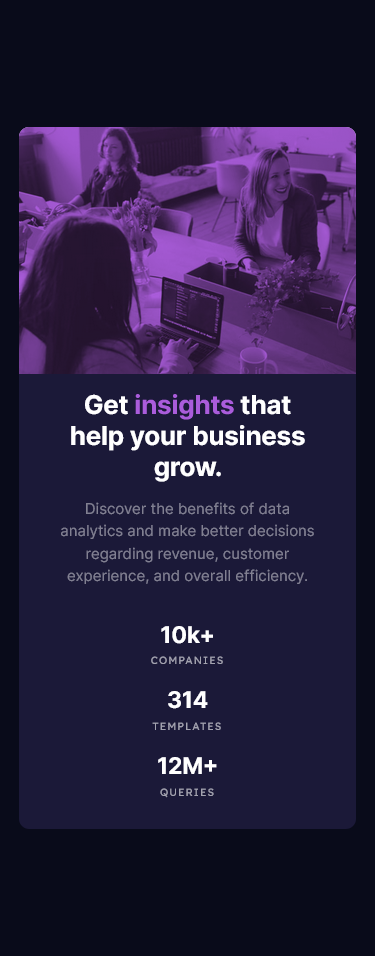
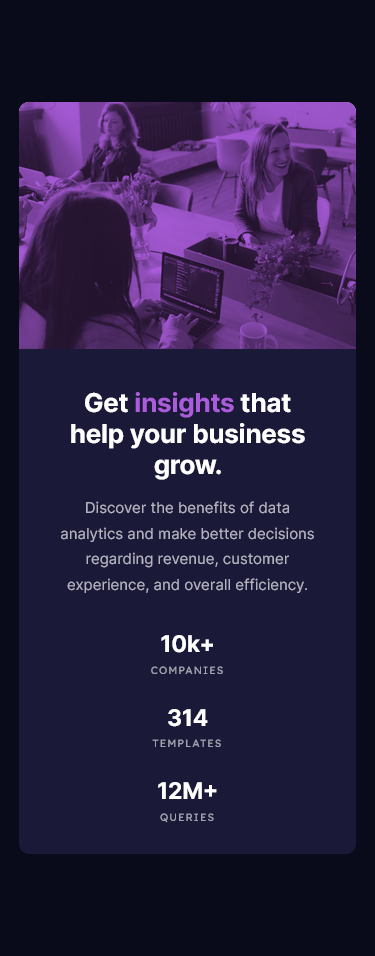
update styles

Changed region(s): [[0.0293, 0.091, 0.968, 0.91]]

diff --git a/styles.css b/styles.css
@@ -38,7 +38,9 @@ body {
 }
 
 .card {
-  max-width: min(90%, 500px);
+  display: flex;
+  flex-direction: column;
+  max-width: min(90%, 450px);
   border-radius: 10px;
   background-color: var(--card-background-clr);
   text-align: center;
@@ -51,10 +53,12 @@ body {
   background-image: url('./images/image-header-mobile.jpg');
   background-size: 100% 100%;
   background-blend-mode: multiply;
+  width: 100%;
   z-index: 1;
+  padding-bottom: calc(480/654 * 100%);
 }
 
-.card__img__overlay {
+.card__img__container::after {
   content: "";
   position: absolute;
   top: 0;
@@ -76,7 +80,7 @@ body {
 }
 
 .card__content {
-  padding: 1em 2.5em;
+  padding: 2.5em 2.5em 1em;
   display: grid;
   gap: 1em;
 }
@@ -95,8 +99,8 @@ body {
   padding-bottom: 1em;
   font-family: var(--primary-font);
   color: var(--main-paragraph-clr);
-  line-height: 1.5em;
-  opacity: .6;
+  line-height: 1.7em;
+  opacity: .9;
 }
 
 .card__stats {
@@ -104,7 +108,7 @@ body {
   display: flex;
   flex-direction: column;
   align-items: center;
-  gap: 1em;
+  gap: 1.5em;
 }
 
 .card__stats--big {
@@ -145,7 +149,7 @@ body {
   opacity: .7;
 }
 
-@media (min-width: 600px) {
+@media (min-width: 800px) {
   .card {
     display: flex;
     flex-direction: row-reverse;
@@ -155,20 +159,26 @@ body {
 
   .card__img__container {
     border-radius: 0 10px 10px 0;
-    width: 100%;
+    background-image: url("./images/image-header-desktop.jpg");
+    background-repeat: no-repeat;
+    background-size: cover;
+    width: none;
+    flex-grow: 1;
+    padding-bottom: 0;
   }
 
-  .card__img__overlay {
+  .card__img__container::after {
     border-radius: 0 10px 10px 0;
+    padding-bottom: 0;
   }
 
   .card__content {
-    padding: 4em 0 4em 4em;
+    padding: 3em 0 3em 4em;
   }
 
   .card__heading {
     max-width: 80%;
-    font-size: 2.3rem;
+    font-size: 2rem;
   }
 
   .card__text {

diff --git a/index.html b/index.html
@@ -31,9 +31,9 @@
   <main class="main">
     <article class="card">
       <div class="card__img__container">
-        <img class="card__img" src="./images/image-header-mobile.jpg"
+        <!-- <img class="card__img" src="./images/image-header-mobile.jpg"
           alt="Three people sitting in an office working, on of them is looking to the side smiling off camera">
-        <div class="card__img__overlay"></div>
+        <div class="card__img__overlay"></div> -->
       </div>
       <div class="card__content">
         <h1 class="card__heading">Get <span class="card__heading--highlight">insights</span> that help your business
@@ -51,12 +51,12 @@
       </div>
     </article>
   </main>
-  <footer class="footer">
+  <!-- <footer class="footer">
     <span>Challenge by <a class="footer__link" href="https://www.frontendmentor.io?ref=challenge"
         target="_blank">Frontend
         Mentor</a>.</span>
     <span>Coded by <a class="footer__link" href="https://www.iamjulian.de/">Julian Krüger</a>.</span>
-  </footer>
+  </footer> -->
 </body>
 
 </html>
